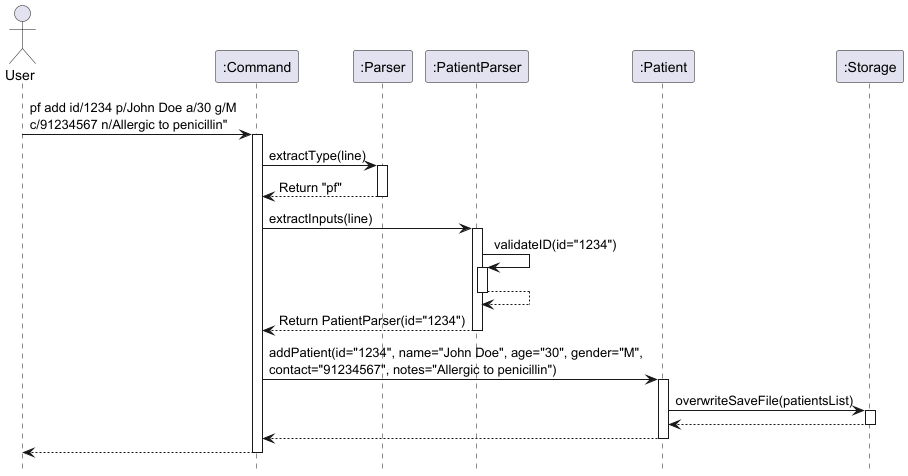
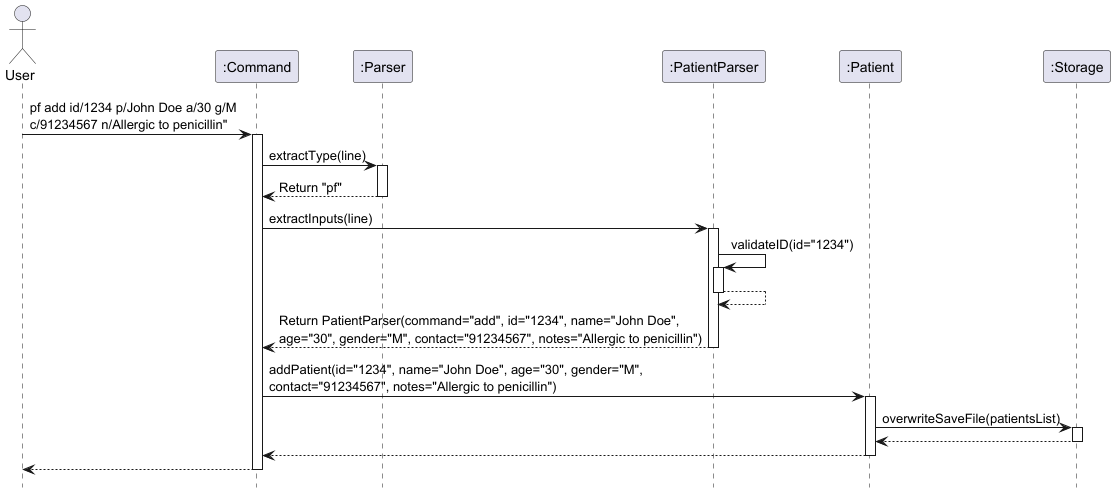
Update DG for patient related classes

diff --git a/docs/AboutUs.md b/docs/AboutUs.md
@@ -1,8 +1,8 @@
 # About us
-Display |  Name  | Github Profile |            Portfolio            
---------|:------:|:--------------:|:-------------------------------:
-![] | Isaac | [Github](https://github.com/isaaclks7) | [Portfolio](docs/team/isaac.md) |
-![](https://via.placeholder.com/100.png?text=Photo) | Xin Hui | [Github](https://github.com/xhuinn) | [Portfolio](docs/team/johndoe.md)
-![](https://via.placeholder.com/100.png?text=Photo) | Louis Tai | [Github](https://github.com/louistaii) | [Portfolio](docs/team/louistai.md)
-![] | Gavin | [Github](https://github.com/tzqgav10) | [Portfolio](docs/team/tzqgav10.md)
-![] | Yishan| [Github](https://github.com/lys2333) | [Portfolio](docs/team/lys2333.md)
+Display |  Name  | Github Profile |           Portfolio            
+--------|:------:|:--------------:|:------------------------------:
+![] | Isaac | [Github](https://github.com/isaaclks7) | [Portfolio](team/isaaclks7.md) |
+![](https://via.placeholder.com/100.png?text=Photo) | Xin Hui | [Github](https://github.com/xhuinn) |  [Portfolio](team/xhuinn.md)  
+![](https://via.placeholder.com/100.png?text=Photo) | Louis Tai | [Github](https://github.com/louistaii) | [Portfolio](team/louistai.md)  
+![] | Gavin | [Github](https://github.com/tzqgav10) | [Portfolio](team/tzqgav10.md)  
+![] | Yishan| [Github](https://github.com/lys2333) |  [Portfolio](team/lys2333.md)  

diff --git a/docs/DeveloperGuide.md b/docs/DeveloperGuide.md
@@ -172,7 +172,7 @@ Given below is an example usage scenario and how the removal mechanism behaves a
 
 Step 1. The user launches the application. The patientsList is initialized, either empty or populated from saved data.
 
-Step 2. The user adds patients using the addPatient method. For example:
+Step 2. The user adds patients using the `addPatient` method. For example:
 
 ```Patient("1234", "John Doe", "30", "M", "91234567", "Allergic to penicillin")```
 
@@ -180,9 +180,9 @@ The following sequence diagram shows how adding patient information goes:
 
 ![addPatientSequenceDiagram.png](assets/patientImages/addPatientSequenceDiagram.png)
 
-Step 3. The user decides to remove a patient by calling removePatient("1234").
+Step 3. The user decides to remove a patient by calling `removePatient("1234")`.
 
-The following sequence diagram shows how the delete patient information goes:
+The following sequence diagram shows deleting patient information goes:
 
 ![removePatientSequenceDiagram.png](assets/patientImages/removePatientSequenceDiagram.png)
 
@@ -862,6 +862,7 @@ To test data persistence:
 ## FAQ
 
 **Q**: How do I transfer my data to another computer?
+
 **A**: All the data is stored in the `/data/` folder. Simply transfer this folder to the other computer.
 
 ## Additional Test Cases

diff --git a/docs/UserGuide.md b/docs/UserGuide.md
@@ -334,6 +334,7 @@ List out patient information for all patients within the list.
 Format: `pf list`
 
 * Displays all patient information stored in the list.
+* If notes is empty, "No notes were given." will be displayed by default.
 
 ### Editing a patient information : `pf edit`
 
